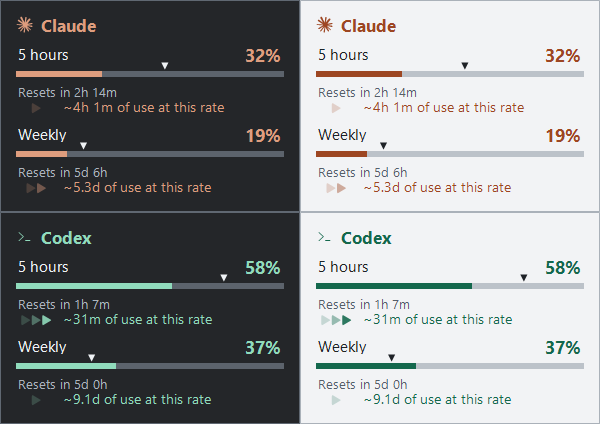
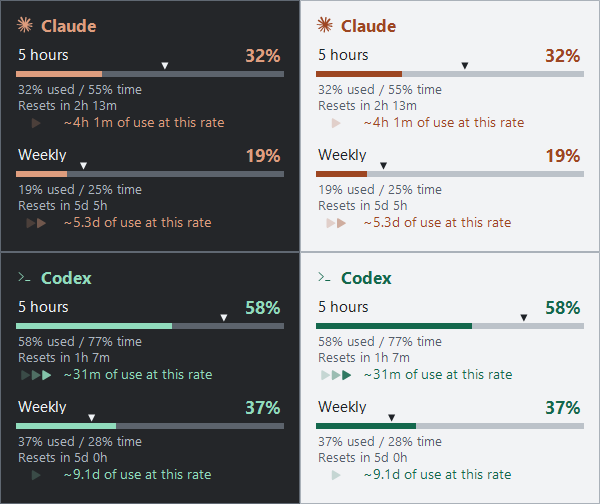
Restore visible detail speed states and consumption versus time comparison

diff --git a/src/Taskcode.Probe/Indicator.cs b/src/Taskcode.Probe/Indicator.cs
@@ -281,6 +281,7 @@ namespace Taskcode.Probe
         internal SpeedReadout SpeedCaption;
         internal DemoReading Reading;
         internal Label ValueCaption;
+        internal Label BudgetCaption;
         internal DateTime RenderTimeUtc = DateTime.UtcNow;
         internal QuotaBar()
         {
@@ -336,7 +337,7 @@ namespace Taskcode.Probe
             ControlBox = false;
             ShowInTaskbar = false;
             StartPosition = FormStartPosition.Manual;
-            ClientSize = new Size(300, 212);
+            ClientSize = new Size(300, 252);
             BackColor = Color.FromArgb(29, 32, 36);
             ForeColor = Color.FromArgb(238, 241, 245);
             Font = new Font("Segoe UI", 10f);
@@ -344,7 +345,7 @@ namespace Taskcode.Probe
             var providerColor = providerIndex == 0 ? IndicatorView.Claude : IndicatorView.Codex;
             providerLabel = AddText(provider, 38, 14, 10, FontStyle.Bold, providerColor);
             AddQuota(this.usage.Readings[providerIndex * 2], 44);
-            AddQuota(this.usage.Readings[providerIndex * 2 + 1], 124);
+            AddQuota(this.usage.Readings[providerIndex * 2 + 1], 144);
             KeyDown += delegate(object sender, KeyEventArgs e) { if (e.KeyCode == Keys.Escape) Hide(); };
             FormClosing += delegate(object sender, FormClosingEventArgs e) { if (e.CloseReason == CloseReason.UserClosing) { e.Cancel = true; Hide(); } };
             periodTimer.Tick += delegate { RefreshPeriods(); };
@@ -379,14 +380,15 @@ namespace Taskcode.Probe
             int valueWidth = Math.Max(72, TextRenderer.MeasureText("100%", valueCaption.Font).Width + 6);
             valueCaption.AutoSize = false; valueCaption.Location = new Point(284 - valueWidth, y - 2);
             valueCaption.Size = new Size(valueWidth, 24); valueCaption.TextAlign = ContentAlignment.TopRight;
-            var caption = AddText("", 16, y + 39, 8, FontStyle.Regular, Color.LightGray);
-            var speedCaption = new SpeedReadout { Location = new Point(16, y + 53), Size = new Size(268, 20), ForeColor = color, Tag = provider.ToLowerInvariant() };
+            var budgetCaption = AddText("", 16, y + 36, 8, FontStyle.Regular, Color.LightGray);
+            var caption = AddText("", 16, y + 52, 8, FontStyle.Regular, Color.LightGray);
+            var speedCaption = new SpeedReadout { Location = new Point(16, y + 68), Size = new Size(268, 20), ForeColor = color, Tag = provider.ToLowerInvariant() };
             Controls.Add(speedCaption);
             Controls.Add(new QuotaBar
             {
                 Location = new Point(10, y + 18), Size = new Size(280, 17),
                 Period = reading.Period, Reading = reading, SpeedCaption = speedCaption, ValueCaption = valueCaption,
-                Provider = provider.ToLowerInvariant(), Theme = theme, Caption = caption,
+                Provider = provider.ToLowerInvariant(), Theme = theme, Caption = caption, BudgetCaption = budgetCaption,
                 AccessibleName = provider + ", " + window + ", " + used + " percent used"
             });
         }
@@ -415,13 +417,15 @@ namespace Taskcode.Probe
                 bar.Caption.Text = value < 0 ? "Unavailable" : bar.Period.ResetCaptionAt(now);
                 var speed = value < 0 ? new SpeedEstimate { State = SpeedState.Unavailable } : bar.Reading.Speed.EstimateAt(now);
                 bar.SpeedCaption.Estimate = speed;
-                bar.SpeedCaption.Visible = value >= 0 && (speed.State == SpeedState.Active || speed.State == SpeedState.Idle);
+                bar.SpeedCaption.Visible = true;
                 hints.SetToolTip(bar.ValueCaption, "Used quota. " + AccessibleDescription);
                 bar.SpeedCaption.AccessibleName = (speed.State == SpeedState.Active ? speed.Level + " speed arrows. " : "") + speed.Summary;
                 bar.SpeedCaption.Invalidate();
                 hasArrows |= bar.SpeedCaption.HasArrows;
                 hints.SetToolTip(bar.SpeedCaption, speed.State == SpeedState.Active ? speed.PointsPerHour.ToString("0.00", System.Globalization.CultureInfo.InvariantCulture) + " percentage points/hour · 15-second recent window. Estimate, not a guarantee." : speed.Summary);
                 var elapsed = bar.Period.ElapsedAt(now);
+                bar.BudgetCaption.Text = value < 0 ? "-- used / -- time" : value + "% used / " +
+                    (elapsed.HasValue ? Math.Round(elapsed.Value * 100) + "% time" : "-- time");
                 string description = Math.Round(bar.Period.UsedFraction * 100) + "% quota used; " +
                     (elapsed.HasValue ? Math.Round(elapsed.Value * 100) + "% time elapsed. " : "") + bar.Period.PaceAt(now) + ".";
                 bar.AccessibleDescription = description;

diff --git a/src/Taskcode.Probe/DetailChecks.cs b/src/Taskcode.Probe/DetailChecks.cs
@@ -27,11 +27,17 @@ namespace Taskcode.Probe
             {
                 panel.Show();
                 Check(panel.FormBorderStyle == FormBorderStyle.None && !panel.ControlBox && !panel.ShowInTaskbar, "Details must be a borderless card without native title/close controls.");
-                Check(panel.ClientSize.Height < 240, "The clean card must omit the former title and footer space.");
+                Check(panel.ClientSize.Height <= 252, "The compact card must fit the restored budget and speed rows.");
                 foreach (Control control in panel.Controls)
                 {
                     var bar = control as QuotaBar;
-                    if (bar != null) Check(TextRenderer.MeasureText("100%", bar.ValueCaption.Font).Width <= bar.ValueCaption.Width, "The percentage must fit completely: " + TextRenderer.MeasureText("100%", bar.ValueCaption.Font).Width + "px required, " + bar.ValueCaption.Width + "px available.");
+                    if (bar != null)
+                    {
+                        Check(TextRenderer.MeasureText("100%", bar.ValueCaption.Font).Width <= bar.ValueCaption.Width, "The percentage must fit completely.");
+                        Check(bar.BudgetCaption.Text.Contains("% used / ") && bar.BudgetCaption.Text.Contains("% time"), "Details must expose consumption versus elapsed time directly.");
+                        Check(bar.SpeedCaption.Visible && bar.SpeedCaption.HasArrows, "Active sample histories must expose speed arrows and their time estimate.");
+                        Check(panel.ClientRectangle.Contains(bar.SpeedCaption.Bounds), "The restored speed row must fit the card.");
+                    }
                     var label = control as Label;
                     if (label == null) continue;
                     Check(label.Text != "Taskcode" && !label.Text.Contains("DATA /") && !label.Text.StartsWith("Gray:") && !label.Text.Contains("history"), "Details must not contain decorative titles, legends, or footer text.");
@@ -45,6 +51,16 @@ namespace Taskcode.Probe
                 Check(panel.Visible, "Pointer over a card's child controls must keep the card open.");
                 panel.TrackPointer(new Point(-25000, -25000), now.AddMilliseconds(450));
                 Check(!panel.Visible, "Leaving both card and trigger must automatically dismiss every provider card.");
+            }
+            using (var panel = new DetailWindow(usage) { Location = new Point(-30000, -30000) })
+            {
+                panel.Show();
+                foreach (Control control in panel.Controls)
+                {
+                    var bar = control as QuotaBar;
+                    if (bar != null) Check(bar.SpeedCaption.Visible && !bar.SpeedCaption.HasArrows && bar.SpeedCaption.Estimate.State == SpeedState.Unavailable,
+                        "Missing observations must show an honest status instead of hiding the row or fabricating arrows.");
+                }
             }
         }
         private static void Check(bool value, string message) { if (!value) throw new InvalidOperationException(message); }

diff --git a/docs/DESIGN.md b/docs/DESIGN.md
@@ -33,7 +33,7 @@ Offline preview values are simulated; normal startup uses the selected account s
 ## Behavior
 
 - Hover opens a panel containing only the selected provider's five-hour and weekly details. The hit regions follow each rendered style and optional weekly layout. Moving to another provider replaces the current panel; both panels are never shown together.
-- Details use a compact borderless card: provider identity, consumed percentages, quota bars/time markers, reset countdowns, and available recent-speed estimates. App titles, native close controls, legends, source labels, and footers are omitted. Source/freshness and pace explanations remain in tooltips and accessibility descriptions.
+- Details use a compact borderless card: provider identity, consumed percentages, quota bars/time markers, a consumed-versus-elapsed percentage row, reset countdowns, and recent-speed estimates or their calculation status. App titles, native close controls, legends, source labels, and footers are omitted. Source/freshness and pace explanations remain in tooltips and accessibility descriptions.
 - Both hover-opened and click-opened cards close after the pointer leaves the card and its trigger, with a 220ms grace period for crossing the small gap. Click does not pin the card. Escape also dismisses it.
 - **Open details** defaults to **Hover**, with a saved **Click only** alternative. Click-only mode disables both native hover events and dwell-based opening. Changing the preference dismisses the current panel immediately.
 - Support click and keyboard access rather than relying exclusively on hover.

diff --git a/docs/USAGE-SPEED.md b/docs/USAGE-SPEED.md
@@ -19,7 +19,7 @@ The estimate is remaining quota divided by the observed consumption rate. The ra
 - Require three consecutive new observations proposing a different level before changing an established arrow count.
 - Do not treat duplicate, out-of-order, non-UTC, or invalid observations as new activity.
 - Discard history when period bounds change, quota increases, or a sampling gap exceeds 30 seconds.
-- Show **Calculating** before sufficient history, **Idle** without recent consumption, and a stale/expired/unavailable state when appropriate. Those states do not show speed arrows.
+- Show **Calculating** before sufficient history, **Idle** without recent consumption, and a stale/expired/unavailable state when appropriate. Those states do not show speed arrows. The row stays visible with its calculation or availability status. Each quota also shows consumed percentage versus elapsed-time percentage directly above the reset countdown.
 - Do not generate new observations just because the display timer ticks. A repeated unchanged reading is valid only when the data source has supplied that observation.
 
 Provider refresh frequency limits responsiveness. Codex is queried approximately every ten seconds; Claude's direct usage check has a five-minute minimum interval and can also receive newer local status-line observations when using the matching local CLI account. Rechecking a cached response does not reveal new consumption. Slow or absent observations leave the estimator calculating or stale. See [account connections](ACCOUNTS.md).
